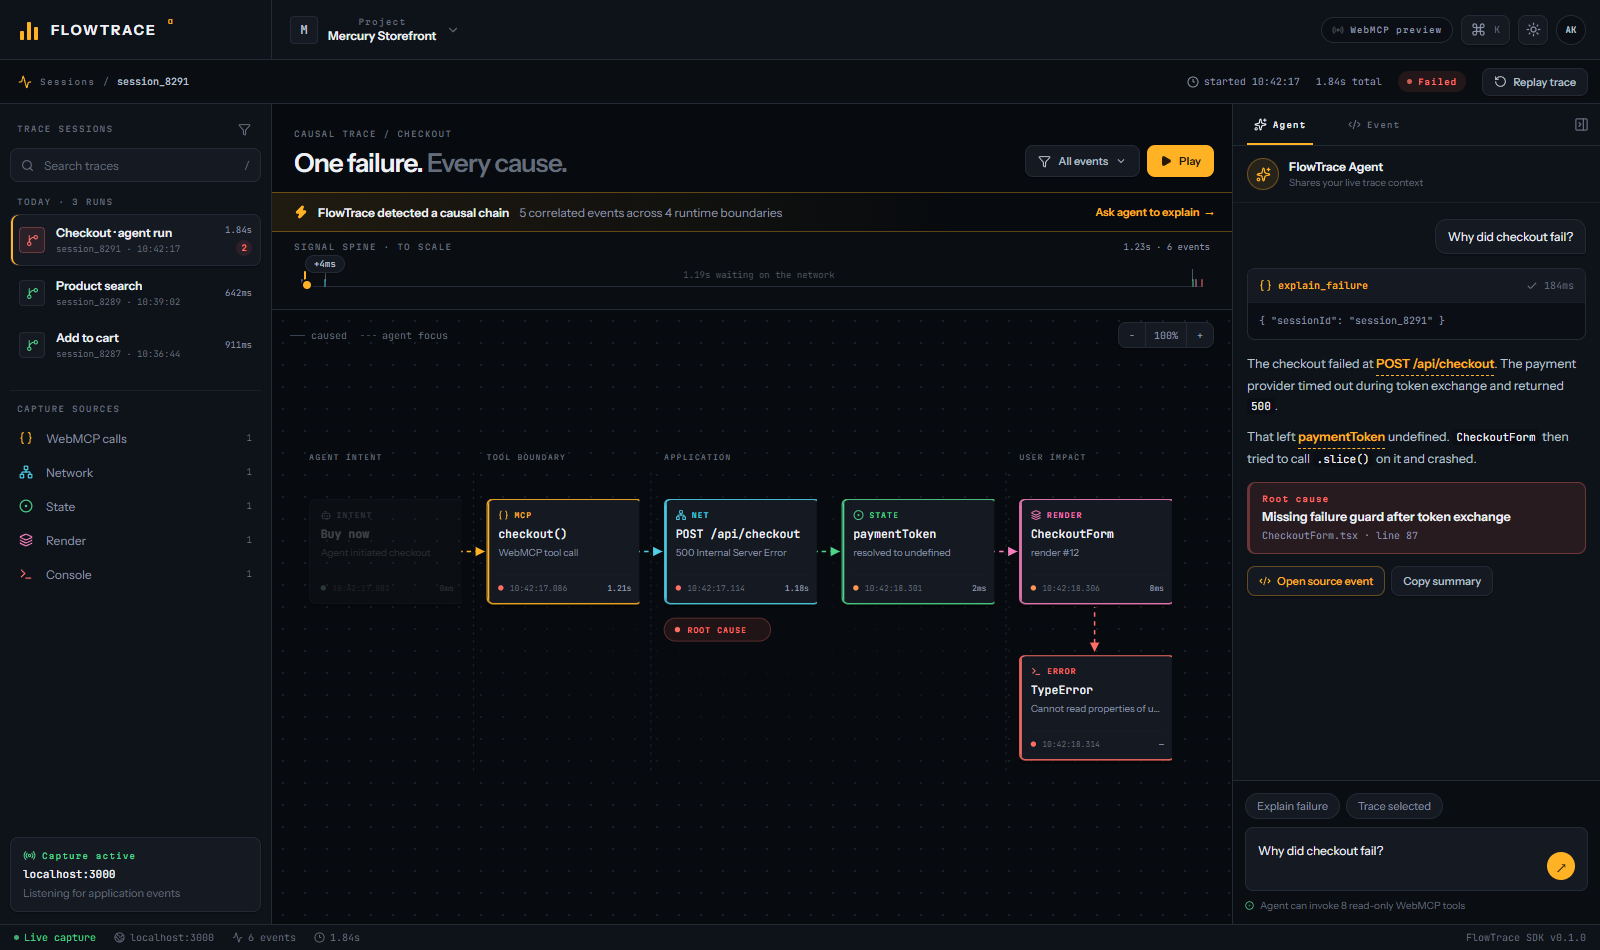
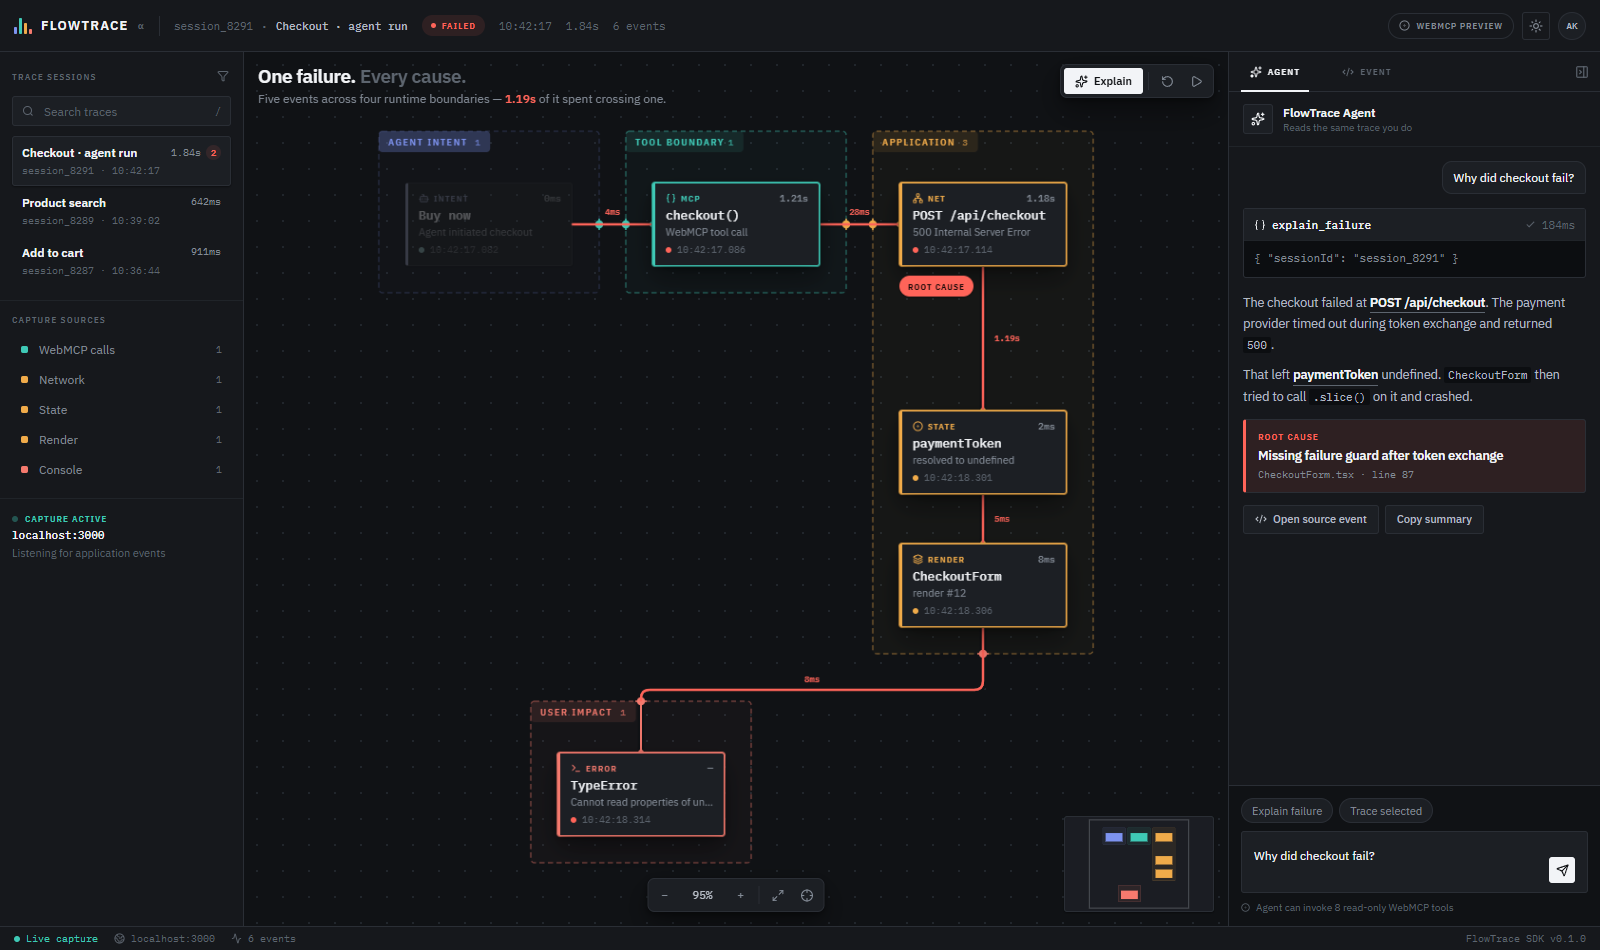
feat: make canvas nodes keyboard-selectable and cover the interactions
Pointer selection runs through the drag handler, which left Enter doing
nothing on a focused node; a detail-0 click handler restores it without
double-firing on mouse.

Adds a test for dragging a node and reframing the canvas, and updates the
README and previews for the schematic canvas.

diff --git a/tests/flowtrace.spec.ts b/tests/flowtrace.spec.ts
@@ -53,3 +53,24 @@ test("the theme switch flips the workspace and survives a reload", async ({ page
   await page.reload();
   await expect(root).toHaveAttribute("data-theme", startedDark ? "light" : "dark");
 });
+
+test("nodes can be dragged and the canvas can be reframed", async ({ page }) => {
+  await page.goto("/");
+  const node = page.locator(".trace-node").first();
+  // Nodes animate in; measure once they have settled.
+  await page.waitForTimeout(700);
+  const before = (await node.boundingBox())!;
+
+  await page.mouse.move(before.x + before.width / 2, before.y + before.height / 2);
+  await page.mouse.down();
+  await page.mouse.move(before.x + before.width / 2 - 60, before.y + before.height / 2 + 150, { steps: 10 });
+  await page.mouse.up();
+
+  const after = (await node.boundingBox())!;
+  expect(Math.abs(after.y - before.y)).toBeGreaterThan(80);
+
+  // Reset restores the authored layout.
+  await page.getByRole("button", { name: "Reset layout" }).click();
+  const restored = (await node.boundingBox())!;
+  expect(Math.abs(restored.y - before.y)).toBeLessThan(4);
+});

diff --git a/src/App.tsx b/src/App.tsx
@@ -302,6 +302,8 @@ function App() {
                     className={`trace-node ${active ? "active" : ""} ${focused && !highlighted.includes(event.id) ? "muted" : ""} ${canvas.dragging === event.id ? "held" : ""}`}
                     style={{ ...tone(boundary), left: point.x, top: point.y, width: NODE_W, height: NODE_H, "--i": index } as CSSProperties}
                     onPointerDown={(e) => canvas.startNodeDrag(e, event.id, () => select(event.id))}
+                    // Pointer selection runs through the drag handler; detail 0 is a keyboard press.
+                    onClick={(e) => { if (e.detail === 0) select(event.id); }}
                   >
                     <span className="node-top">
                       <span className="node-kind"><Icon size={11} strokeWidth={2.2} />{kindLabel[event.kind]}</span>

diff --git a/README.md b/README.md
@@ -4,7 +4,7 @@
 
 FlowTrace turns disconnected browser telemetry into one causal graph. Developers get a visual timeline; AI agents get structured, read-only WebMCP tools over the exact same trace.
 
-![FlowTrace in dark and light](preview-dark.png)
+![The FlowTrace canvas](preview-dark.png)
 
 When an agent calls `explain_failure`, FlowTrace returns machine-readable causes and simultaneously focuses those events in the UI:
 
@@ -22,7 +22,8 @@ WebMCP checkout() → POST /api/checkout → HTTP 500
 - Read-only tool annotations and strict JSON Schemas
 - Browser-safe preview API for environments where experimental WebMCP is unavailable
 - Light and dark themes that follow the OS until you pick one, then remember the choice
-- A signal spine that places every event at its true temporal offset, so the stall that caused the failure is visible rather than described
+- A spatial canvas you can pan, zoom, and rearrange: runtime boundaries are drawn as enclosures, and dragging a node grows its boundary rather than escaping it
+- Boundary ports — every hop that crosses a runtime boundary punches through the enclosure wall at a marked port, carrying the latency of that crossing
 - Responsive, keyboard-focusable developer interface
 
 ## WebMCP tools
